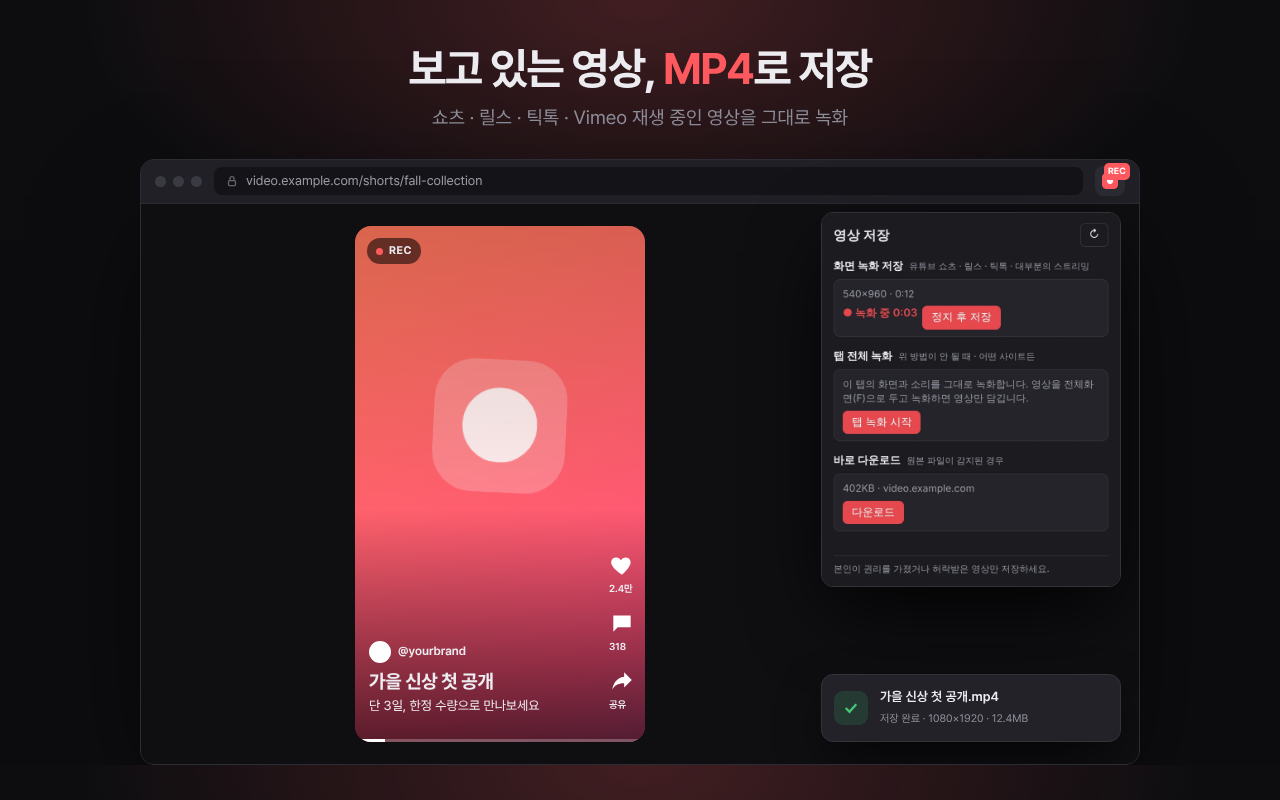
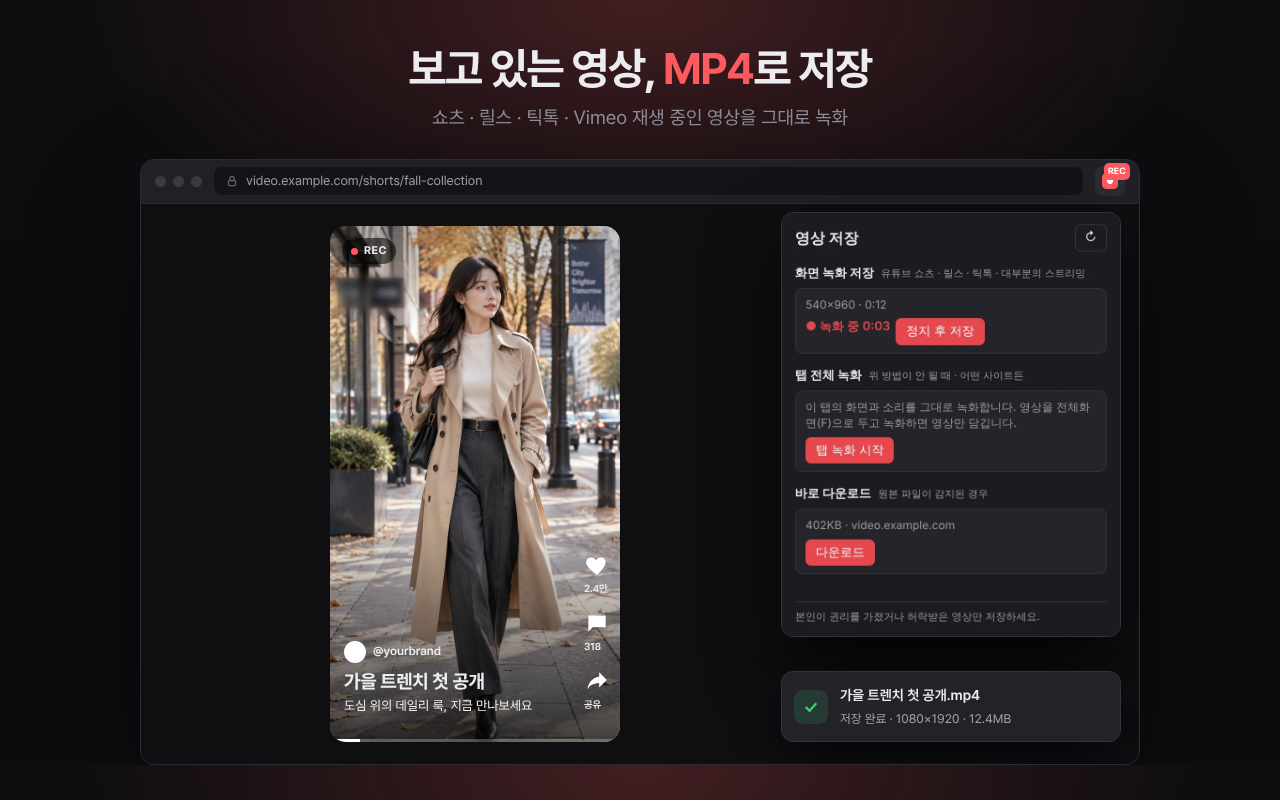
Use generated street-fashion photo in landing mockup and store screenshots
Storefront brand sign in the photo is blurred.

Claude-Session: https://claude.ai/code/session_0147sez9Htw662SHnqfgfepG

Changed region(s): [[0.25, 0.2812, 0.5312, 0.9375], [0.5938, 0.2812, 0.8438, 0.7812], [0.5938, 0.8125, 0.8438, 0.9375]]

diff --git a/docs/index.html b/docs/index.html
@@ -11,6 +11,7 @@
 <meta property="og:url" content="https://stream.plustonic.com/">
 <meta property="og:type" content="website">
 <link rel="icon" href="assets/icon128.png">
+<link rel="preload" as="image" href="assets/short.webp">
 <link rel="stylesheet" href="fonts/pretendard/pretendardvariable-dynamic-subset.css">
 <style>
 :root {
@@ -62,14 +63,11 @@ h1 em { font-style: normal; color: var(--accent); }
 .viewport { position: relative; height: 600px; background: #0f0f12; display: flex; justify-content: center; align-items: center; }
 
 /* the short */
-.short { position: relative; height: 92%; aspect-ratio: 9/16; border-radius: 16px; overflow: hidden; margin-right: 330px;
-  background: linear-gradient(160deg, #ff7a59, #ff4f7b 45%, #6a5cff); background-size: 200% 200%; animation: hue 8s ease-in-out infinite alternate; }
-@keyframes hue { to { background-position: 100% 100%; } }
-.short::after { content: ""; position: absolute; inset: 0; background: linear-gradient(to top, rgba(0,0,0,.65), transparent 45%, rgba(0,0,0,.15)); }
-.prod { position: absolute; left: 50%; top: 40%; width: 46%; aspect-ratio: 1; transform: translate(-50%,-50%); }
-.prod i { position: absolute; inset: 0; border-radius: 30%; background: rgba(255,255,255,.22); backdrop-filter: blur(4px); animation: float 4s ease-in-out infinite; }
-.prod i:nth-child(2) { inset: 22%; border-radius: 50%; background: rgba(255,255,255,.85); animation-delay: -1s; }
-@keyframes float { 50% { transform: translateY(-8px) rotate(4deg); } }
+.short { position: relative; height: 92%; aspect-ratio: 9/16; border-radius: 16px; overflow: hidden; margin-right: 330px; background: #2a2a30; }
+.short .frame { position: absolute; inset: 0; background: url(assets/short.webp) center 30% / cover no-repeat; transform-origin: 50% 35%;
+  animation: kb 14s ease-in-out infinite alternate; }
+@keyframes kb { from { transform: scale(1.02) translateY(0); } to { transform: scale(1.12) translateY(-2%); } }
+.short::after { content: ""; position: absolute; inset: 0; background: linear-gradient(to top, rgba(0,0,0,.72), transparent 42%, transparent 80%, rgba(0,0,0,.25)); }
 .rec { position: absolute; z-index: 2; top: 12px; left: 12px; display: flex; align-items: center; gap: 6px; padding: 4px 9px; border-radius: 999px;
   background: rgba(0,0,0,.55); font-size: 11px; font-weight: 700; letter-spacing: .04em; }
 .rec::before { content: ""; width: 7px; height: 7px; border-radius: 50%; background: var(--accent); animation: blink 1s steps(1) infinite; }
@@ -163,7 +161,7 @@ footer a { text-decoration: none; }
         <div class="viewport">
           <div class="short">
             <span class="rec">REC</span>
-            <div class="prod"><i></i><i></i></div>
+            <div class="frame" role="img" aria-label="가을 트렌치코트를 입은 모델이 도심 거리를 걷는 숏폼 영상 장면"></div>
             <div class="side">
               <div><svg viewBox="0 0 24 24" fill="#fff"><path d="M12 21s-7.5-4.6-9.5-9.2C1 8.3 3.2 5 6.6 5c2 0 3.4 1.1 4.4 2.5C12 6.1 13.4 5 15.4 5 18.8 5 21 8.3 19.5 11.8 17.5 16.4 12 21 12 21z"/></svg>2.4만</div>
               <div><svg viewBox="0 0 24 24" fill="#fff"><path d="M4 5h16v11H8l-4 4z"/></svg>318</div>
@@ -171,14 +169,14 @@ footer a { text-decoration: none; }
             </div>
             <div class="cap">
               <div class="ch"><i></i>@yourbrand</div>
-              <p><strong>가을 신상 첫 공개</strong>단 3일, 한정 수량으로 만나보세요</p>
+              <p><strong>가을 트렌치 첫 공개</strong>도심 위의 데일리 룩, 지금 만나보세요</p>
             </div>
             <div class="prog"></div>
           </div>
           <div class="popup"><img src="assets/popup-rec.webp" width="720" height="902" alt="Tonicstream 확장 프로그램 창: 녹화 중 0:03, 정지 후 저장 버튼"></div>
           <div class="toast">
             <div class="ic"><svg width="18" height="18" viewBox="0 0 24 24" fill="none" stroke="currentColor" stroke-width="3"><path d="M5 12l5 5 9-10"/></svg></div>
-            <div><b>가을 신상 첫 공개.mp4</b><small>저장 완료 · 1080×1920 · 12.4MB</small></div>
+            <div><b>가을 트렌치 첫 공개.mp4</b><small>저장 완료 · 1080×1920 · 12.4MB</small></div>
           </div>
         </div>
       </div>
